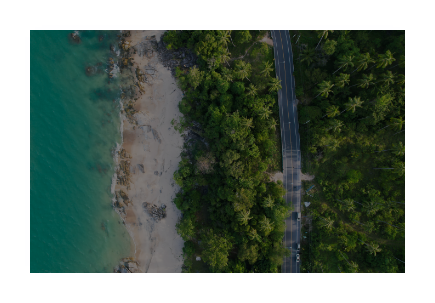
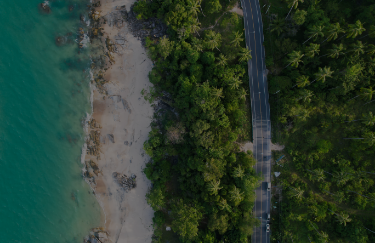
analysis page background added

diff --git a/app/components/UserIcon.jsx b/app/components/UserIcon.jsx
@@ -64,7 +64,17 @@ const UserIcon = ({
           <IconGroup offset={2} />
           <IconGroup offset={3} />
           <View style={{ marginLeft: 30 }}>
-            <Text> +{groupSize}</Text>
+            <Text
+              style={{
+                color:
+                  darkMode === "DARK"
+                    ? GlobalStyles.Color.white
+                    : GlobalStyles.Color.secondaryDarkTheme_bg,
+              }}
+            >
+              {" "}
+              +{groupSize}
+            </Text>
           </View>
         </>
       ) : null}

diff --git a/app/screens/Analytics.js b/app/screens/Analytics.js
@@ -208,8 +208,8 @@ const Analytics = ({ navigation }) => {
       <ImageBackground
         source={
           darkMode === "DARK"
-            ? require("../assets/dashboardDark/dashboardTop.jpg")
-            : require("../assets/backgrounds/beach.jpg")
+            ? require("../assets/backgrounds/Analysis.png")
+            : require("../assets/backgrounds/Analysis.png")
         }
         style={styles.backgroundImage}
       >
